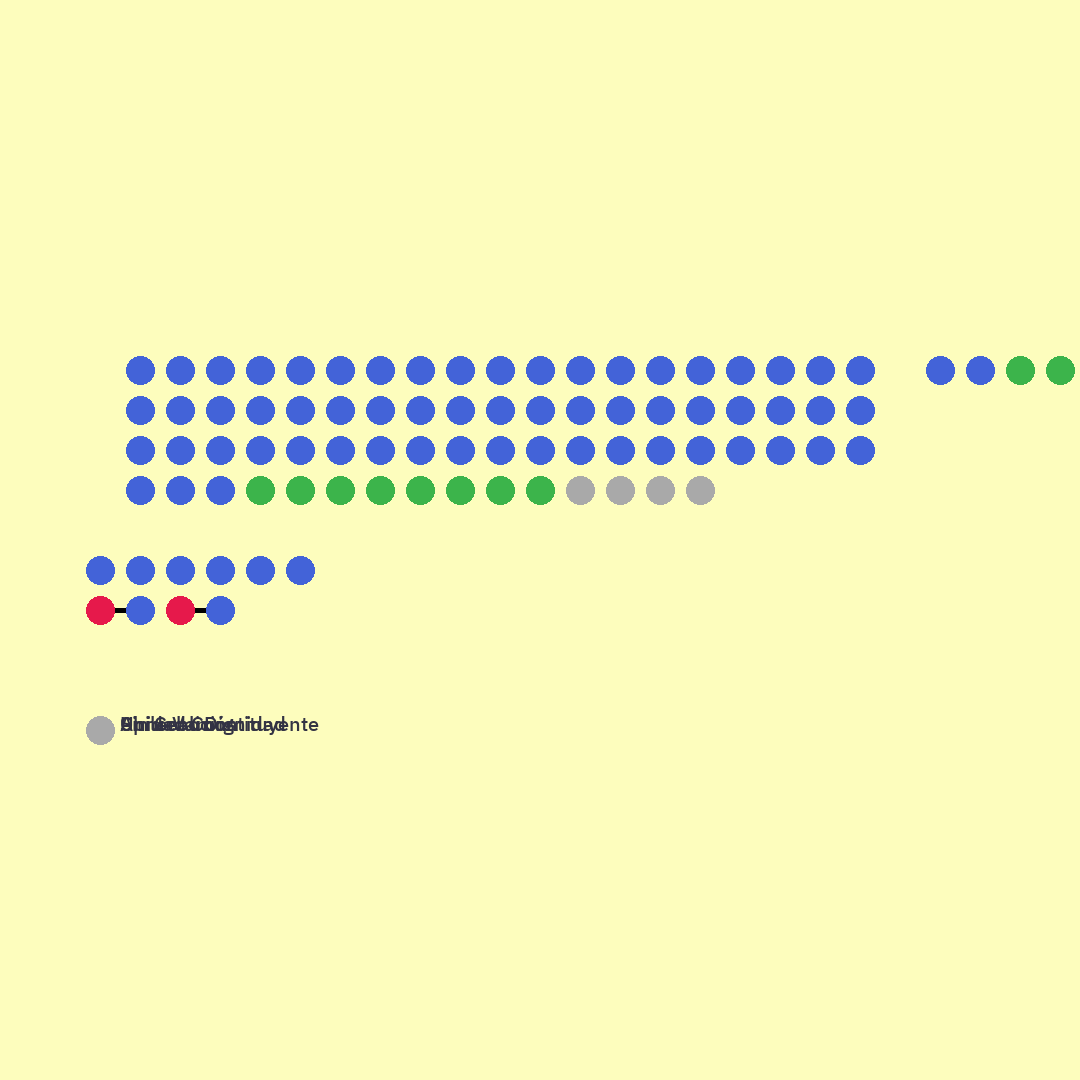
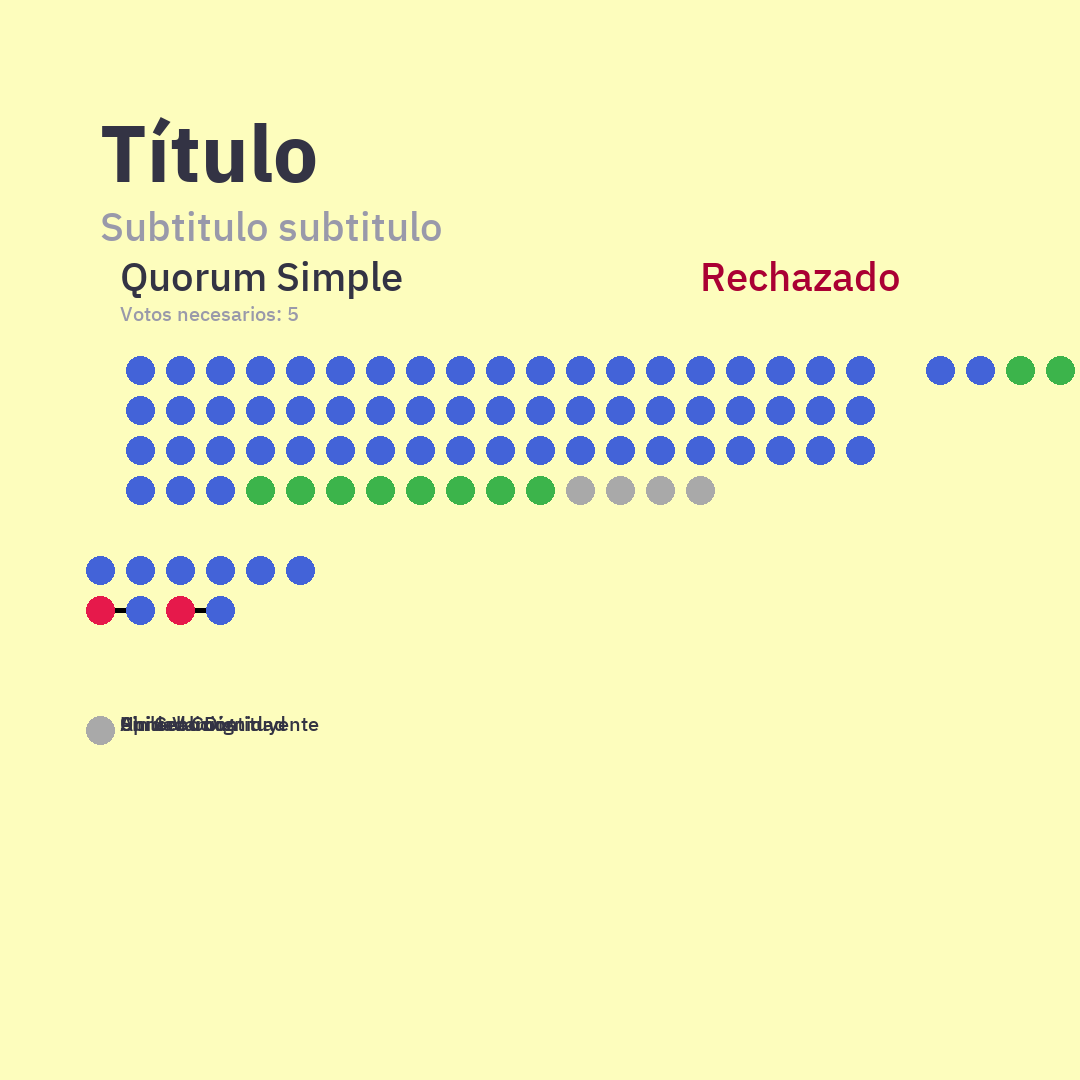
:bug: Arregla posiciones del encabezado de la visualización

Changed region(s): [[0.0917, 0.0917, 0.3972, 0.3056], [0.6417, 0.2444, 0.825, 0.275]]

diff --git a/draw/main.py b/draw/main.py
@@ -23,7 +23,12 @@ if __name__ == "__main__":
 
     # Cargamos el objeto Votación
     with open(path_votacion, 'rb') as file:
-        votacion_por_partido, votacion_por_coalicion = pickle.load(file)
+        votacion_info = pickle.load(file)
+    resultado              = votacion_info["resultado"]
+    quorum                 = votacion_info["quorum"]
+    nquorum                = votacion_info["nquorum"]
+    votacion_por_partido   = votacion_info["info_por_partido"]
+    votacion_por_coalicion = votacion_info["info_por_coalicion"]
 
     titulo = ""
     # Si fue ingresado como argumento, rescatamos el título de la visualización
@@ -32,12 +37,14 @@ if __name__ == "__main__":
 
     # Creamos la visualización por partidos
     opcionesH, opcionesV, pareos = votacion_por_partido
-    im = create_image(titulo, grupos=partidos,
+    im = create_image(titulo, resultado=resultado, quorum=quorum,
+                      nquorum=nquorum, grupos=partidos,
                       opcionesH=opcionesH, opcionesV=opcionesV, pareos=pareos)
     im.save(f'{path_root}/visualizaciones/{votid}_partidos.png')
 
     # Creamos la visualización por coalicion
     opcionesH, opcionesV, pareos = votacion_por_coalicion
-    im = create_image(titulo, grupos=coaliciones,
+    im = create_image(titulo, resultado=resultado, quorum=quorum,
+                      nquorum=nquorum, grupos=coaliciones,
                       opcionesH=opcionesH, opcionesV=opcionesV, pareos=pareos)
     im.save(f'{path_root}/visualizaciones/{votid}_coaliciones.png')

diff --git a/diputados/models.py b/diputados/models.py
@@ -40,6 +40,7 @@ class Votacion:
         self.tipo       = tipo
         self.resultado  = resultado
         self.quorum     = quorum
+        print(quorum)
         self.diputados  = diputados
         self.a_favor    = a_favor
         self.abstencion = abstencion
@@ -114,10 +115,23 @@ class Votacion:
         return my_dict
 
     @property
-    # Entrega la información de la votación de forma que facilita la
-    # construcción de visualizaciones
-    def info(self):
-        return self.info_por_partido, self.info_por_coalicion
+    # Entrega la cantidad de votos necesaria para aprobar
+    def nquorum(self):
+        return 5
+
+    @property
+    # Entrega la información de la votación en formato json
+    def json(self):
+        return {
+            "id": self.id,
+            "fecha": self.fecha,
+            "tipo": self.tipo,
+            "resultado": self.resultado,
+            "quorum": self.quorum,
+            "nquorum": self.nquorum,
+            "info_por_partido": self.info_por_partido,
+            "info_por_coalicion": self.info_por_coalicion
+        }
 
     @property
     # Entrega la información de la votación segmentada por partido

diff --git a/draw/draw.py b/draw/draw.py
@@ -266,12 +266,17 @@ def create_image(titulo='', subtitulo='', resultado='', quorum='', nquorum=-1, g
     draw = ImageDraw.Draw(im)
 
     # Escribe encabezado
+    # TODO: Arreglar el ingreso de los títulos como argumento
+    #titulo = input("Ingresa un título: ")
+    titulo = "Título"
     draw.text((100,100), titulo,    font=title,    fill='#333344')
-    draw.text((150,100), subtitulo, font=subtitle, fill='#9999AA')
-    draw.text((200,500), resultado, font=subtitle, fill='#AA0033')
+    #titulo = input("Ingresa un subtítulo: ")
+    subtitulo = "Subtitulo subtitulo"
+    draw.text((100,200), subtitulo, font=subtitle, fill='#9999AA')
+    draw.text((700,250), resultado, font=subtitle, fill='#AA0033')
     if nquorum > 0:
-        draw.text((250,500), f"Quorum {quorum}", font=subtitle, fill='#333344')
-        draw.text((300,500), f"Votos necesarios: {nquorum}", font=normal, fill='#9999AA')
+        draw.text((120,250), f"{quorum}", font=subtitle, fill='#333344')
+        draw.text((120,300), f"Votos necesarios: {nquorum}", font=normal, fill='#9999AA')
 
     # Dibuja opciones
     total_col = 23

diff --git a/diputados/main.py b/diputados/main.py
@@ -28,7 +28,7 @@ if __name__ == "__main__":
         votacion = get_votacion(votid)
         # Guardamos el objeto de la votación
         with open(path, 'wb') as file:
-            pickle.dump(votacion.info, file)
+            pickle.dump(votacion.json, file)
 
     titulo = ""
     # Si fue ingresado como argumento, rescatamos el título de la visualización
